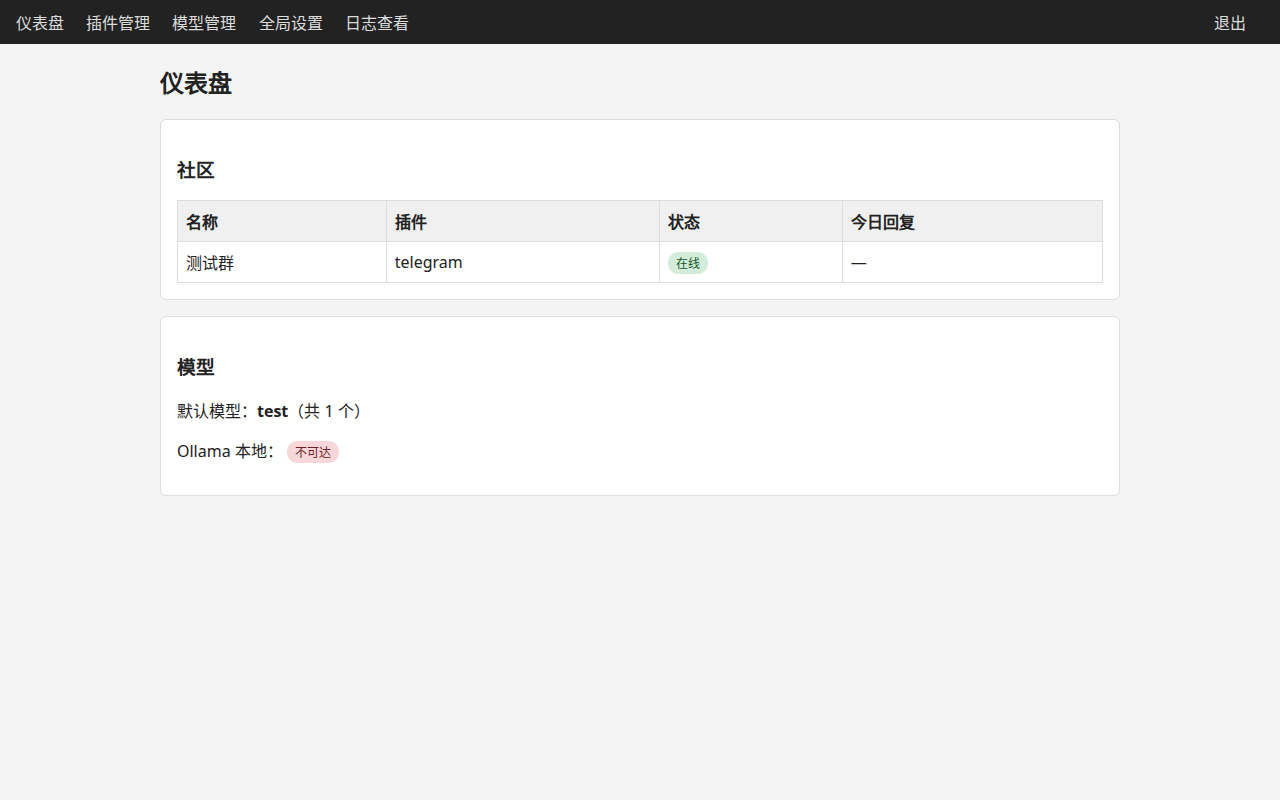
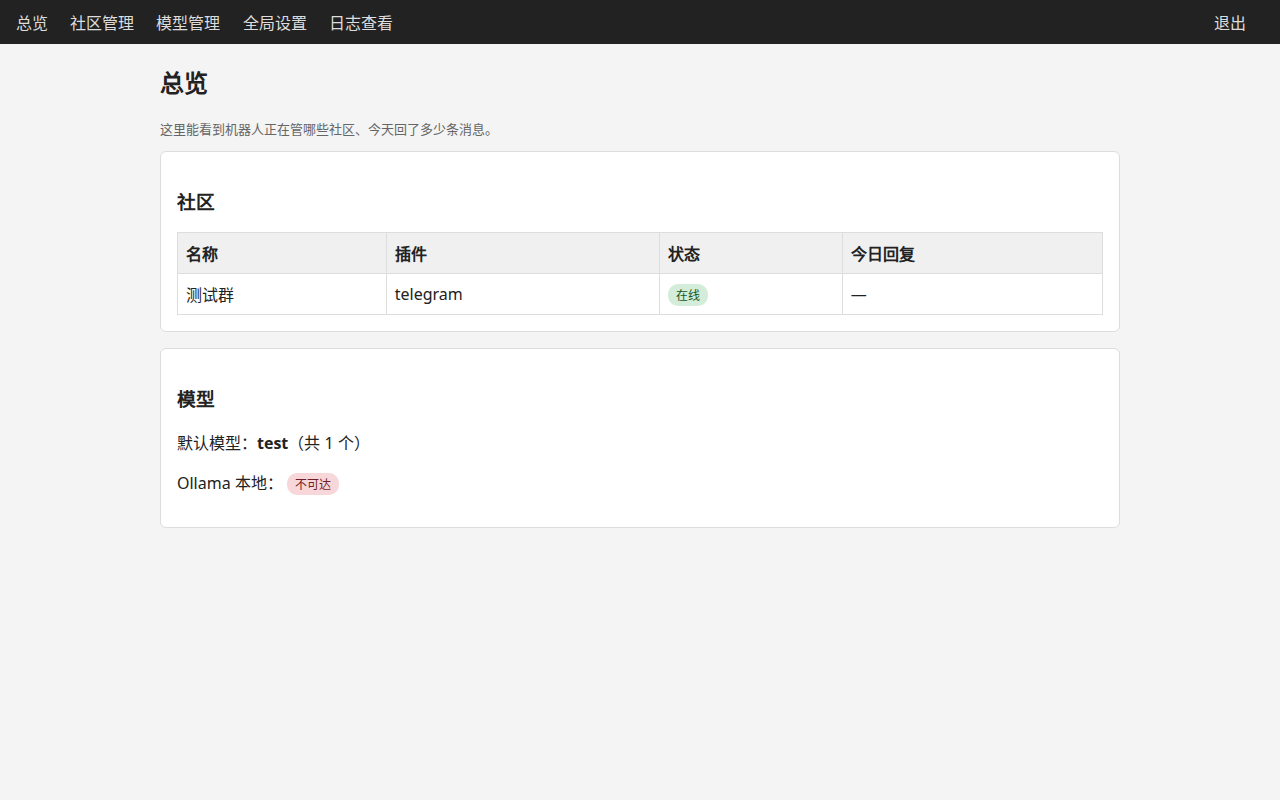
红蓝对抗修复：start.bat密码判断/start.sh PEP668+存活检查/配置段类型校验/文档导航统一

diff --git a/src/main.py b/src/main.py
@@ -69,6 +69,20 @@ def load_config(path: str) -> dict:
         )
     if not isinstance(cfg, dict):
         raise ValueError(f"配置文件顶层必须是字典，实际是 {type(cfg).__name__}: {path}")
+    # M2：已知字典段的类型校验（如 port:52323 会静默解析成字符串）
+    for section in ("communities", "rules", "tiers", "prompts", "web", "models"):
+        v = cfg.get(section)
+        if v is None:
+            continue
+        expect_list = section in ("communities", "models")
+        ok = isinstance(v, list) if expect_list else isinstance(v, dict)
+        if not ok:
+            raise ValueError(
+                f"配置文件 {section}: 应该是一个"
+                f"{'列表' if expect_list else '字典'}，实际是 {type(v).__name__}\n"
+                f"  可能原因：冒号后面漏了空格（如 port:52323 应写成 port: 52323）\n"
+                f"  或缩进不对。请检查该段的写法。"
+            )
     return cfg
 
 

diff --git a/docs/术语表.md b/docs/术语表.md
@@ -11,7 +11,7 @@
 | 反向代理 | 一种网络转发技术。小白不用懂——只有当你想让别人从外网访问你的 Web 界面时才需要。 |
 | YAML | 配置文件用的格式，靠**空格缩进**表示层级。记住三大忌：冒号后加空格、不用 Tab、不用中文冒号。 |
 | 插件 | 一个"翻译官"：每种论坛/聊天软件说话方式不一样，插件负责把它们翻译成机器人能懂的统一格式。 |
-| 仪表盘（Web 首页） | Web 界面第一个页面，能看到机器人正在管哪些社区、今天回了多少条。 |
+| 总览（Web 首页，原名"仪表盘"） | Web 界面第一个页面，能看到机器人正在管哪些社区、今天回了多少条。 |
 | 梯度轮询 | 机器人按帖子活跃程度决定多久检查一次：刚有人说话的 1 分钟查一次，好几天没人说话的 7 天才查一次，省资源。 |
 | 401 / 403 | 网站返回的"错误代码"，意思就是"你的登录过期了 / 没权限"。看到这个一般是 Token 填错了或过期了，重新申请一个就行。 |
 | Bearer | 一种密码的传递方式，写在网络请求头里。小白不用懂，只要知道"把 Key 填到 Web 表单里就行"。 |

diff --git a/README.md b/README.md
@@ -33,7 +33,7 @@
 
 - **多平台适配**：论坛类（Flarum、Discourse、phpBB、NodeBB、Discuz!）+ 即时通讯类（Telegram、Discord、飞书、钉钉、企业微信、Slack），详见 [docs/ADAPTERS.md](docs/ADAPTERS.md)
 - **自由模型层**：本地 Ollama、远端自建、商业 API（OpenAI、Google Gemini、Anthropic）
-- **Web 管理**：仪表盘、规则配置、模型管理、日志查看
+- **Web 管理**：总览、社区管理、模型管理、全局设置、日志查看
 - **梯度轮询**：按帖子活跃度分级检查（Hot/Warm/Cold/Archived），不刷浏览量
 - **完整性校验**：回复生成后自检，思维链泄露、截断自动丢弃
 

diff --git a/docs/安装指南.md b/docs/安装指南.md
@@ -49,6 +49,9 @@ pip install -r requirements.txt
 ```
 
 > 如果提示 `'pip' 不是内部或外部命令`，回到第 1 步检查 PATH。
+> 如果提示 `externally-managed-environment`（Ubuntu/Debian 新系统常见）：
+> 改用 `pip install --break-system-packages -r requirements.txt`，
+> 或先建虚拟环境：`python3 -m venv .venv && source .venv/bin/activate` 再装。
 
 ### 第 4 步：复制配置
 
@@ -191,6 +194,8 @@ cp config/config.example.yaml config/config.yaml
 ```
 nano config/config.yaml
 ```
+
+> nano 小抄：改完后按 `Ctrl+O` 再按回车保存，按 `Ctrl+X` 退出。
 
 ### 第 5 步：启动
 

diff --git a/docs/PLUGINS.md b/docs/PLUGINS.md
@@ -37,7 +37,7 @@ config_schema:
 
 ### 1. Web 界面（推荐）
 
-打开 `http://localhost:52323` → 插件管理：
+打开 `http://localhost:52323` → 社区管理：
 - 页面列出 `config.yaml` 里已配置的社区，可启用/禁用、点"配置"修改
 - 点"新增社区"可添加新社区：选插件（下拉，来自自动扫描 `plugins/` 的结果）→ 填社区名称 → 按该插件 `manifest.yaml` 的 `config_schema` 生成表单填写
 - 表单由 `config_schema` 自动生成，`secret: true` 的字段用密码框（留空表示保留原值）
